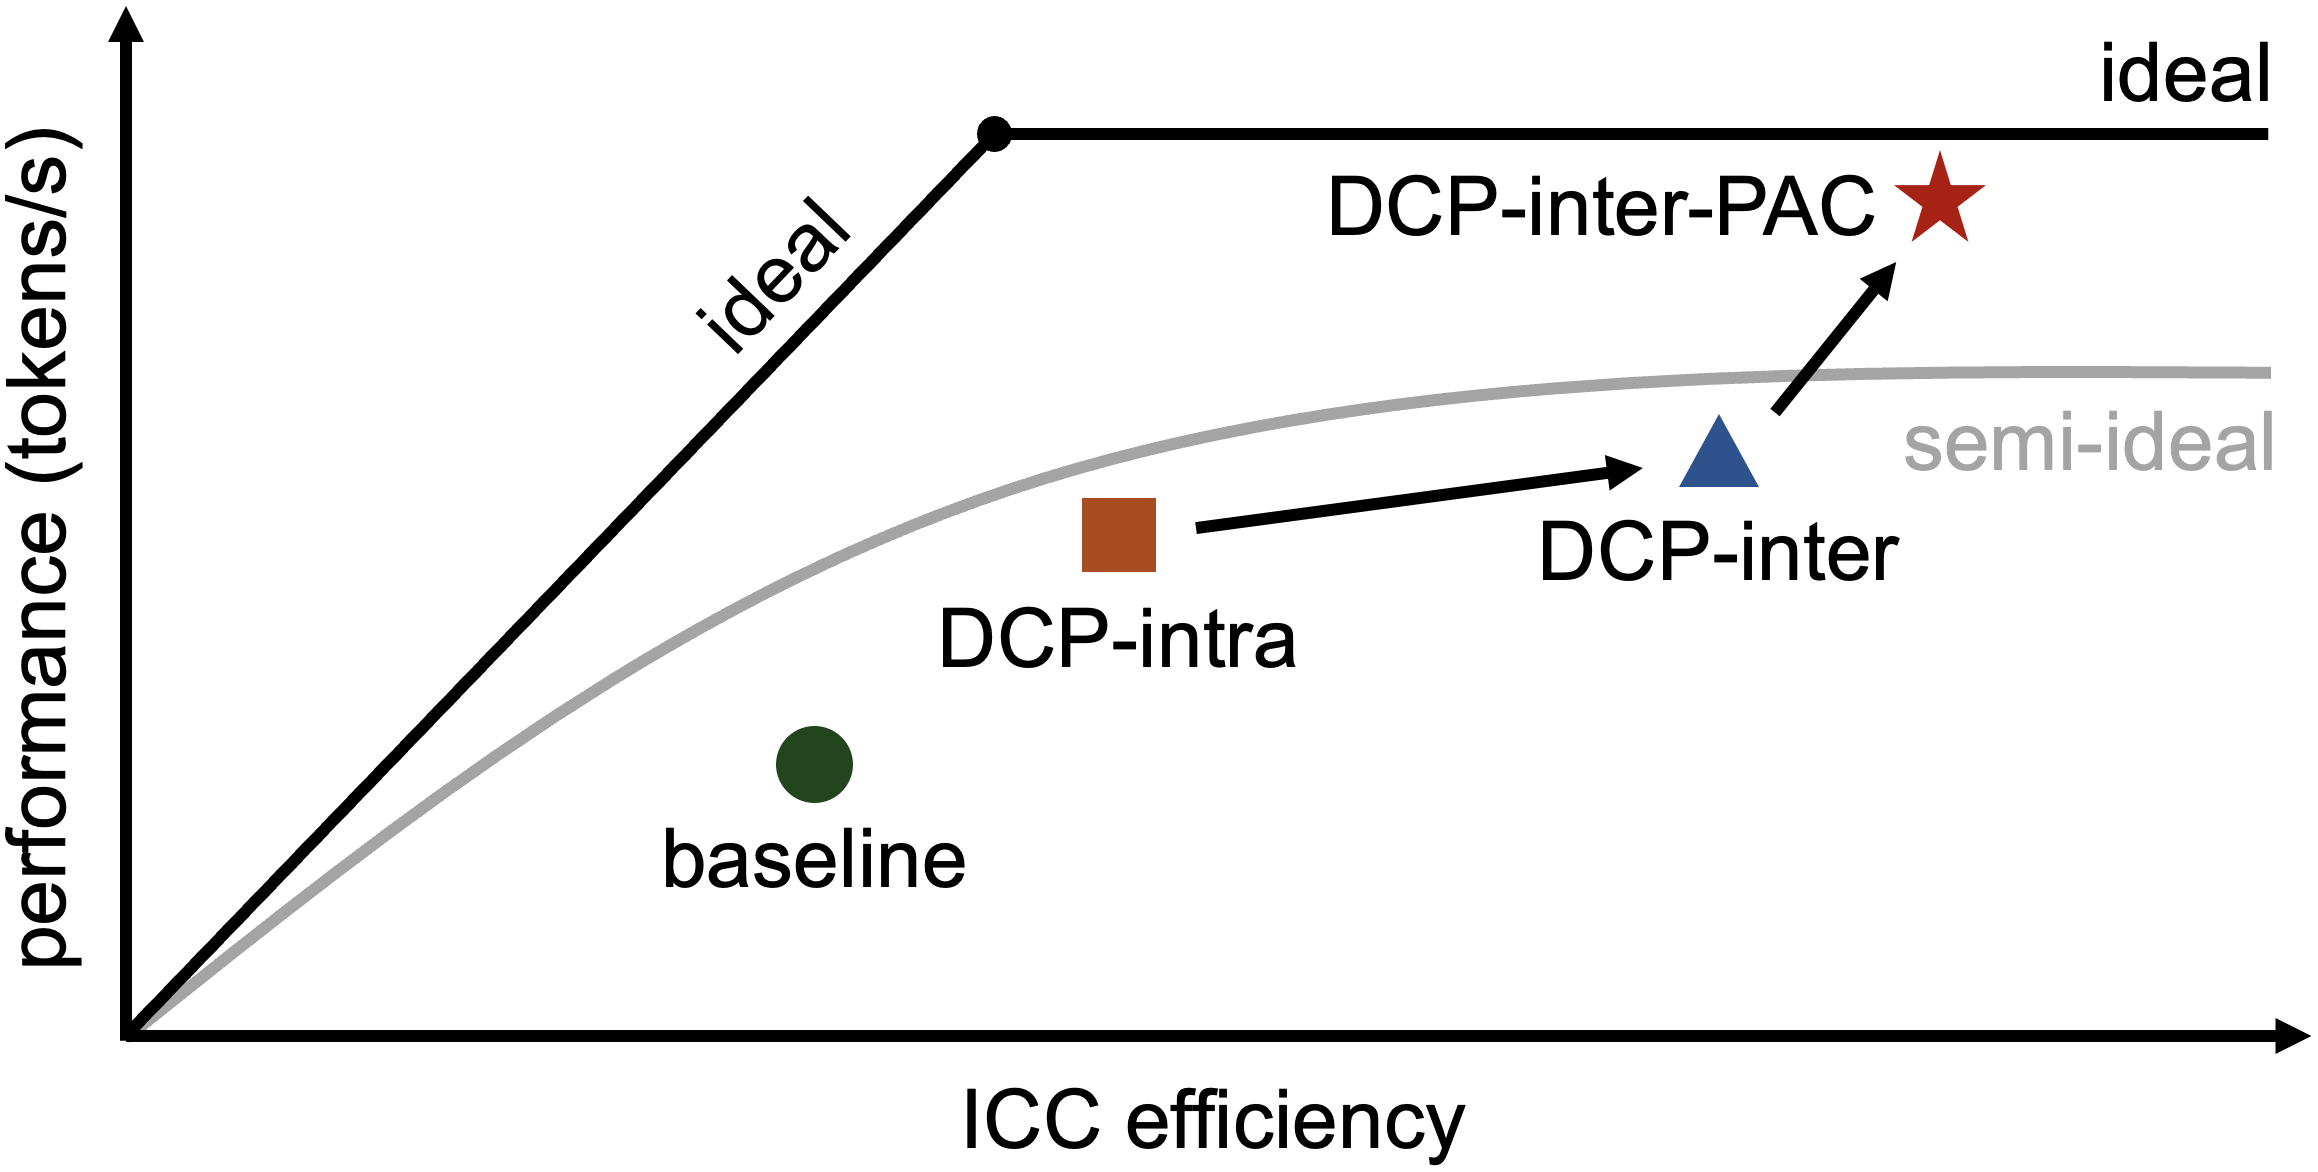
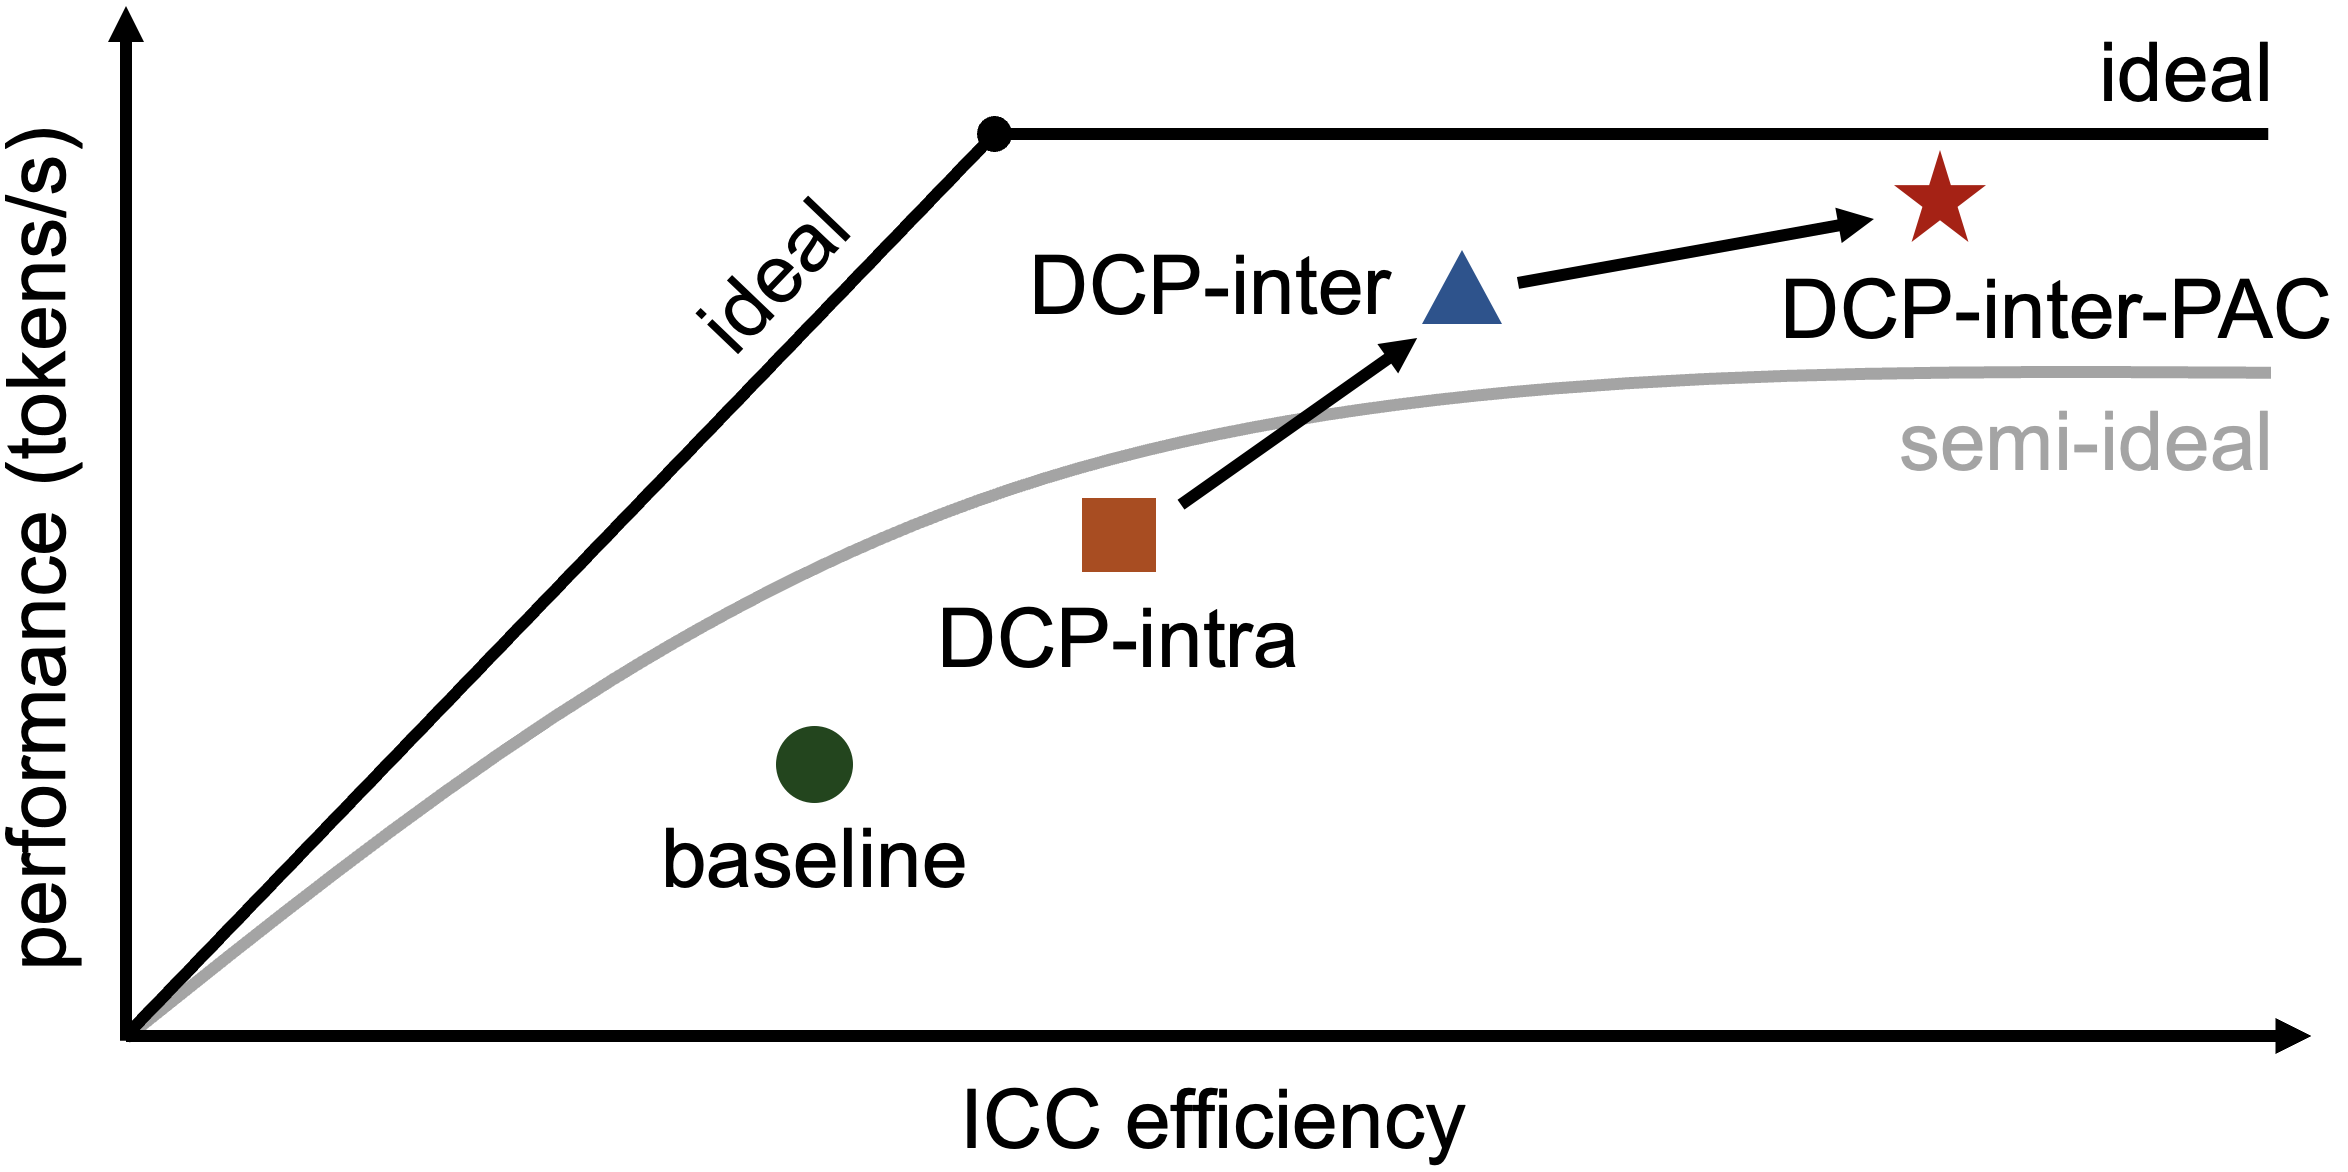
update

diff --git a/DCP/index.html b/DCP/index.html
@@ -240,30 +240,6 @@
               However, bucket parallel struggles with workload imbalance at small batch sizes and communication inefficiency for shorter sequences, while packed parallel, despite better load balancing, incurs unnecessary communication overhead and requires complex implementation changes. Both approaches fail to addresses two critical challenges in variable sequences training: necessary sequence parallel for long sequences and the unbalanced workloads from diverse sequence sizes, due to their fixed settings and lack of data awareness.
             </p>
           </div>
-
-          <h2 class="title is-4">Performance Modeling <span style="font-size: 0.8em">- How to Quantify Efficiency of Variable Sequences Training?</span></h2>
-          <div class="content has-text-justified">
-
-            <div class="content has-text-centered"> 
-              <div id="roofline">
-                <img src="./static/images/roofline.png" style="width: 50%;"><br>
-              </div>
-              <span style="font-size: 0.8em; width: 80%; display: inline-block;">Figure 2: Roofline model of variable sequences training.</span>
-            </div>
-
-            <p>
-              We propose a comprehensive roofline model to characterize and analyze the performance of variable sequences training, as illustrated in Figure 2. The model introduces the ICC (Imbalance-Communication-Computation) efficiency metric, which includes three fundamental factors that collectively determine the overall system performance: workload imbalance, communication overhead, and computation efficiency. It can be formally expressed as:
-            </p>
-            <p>
-              $$
-              ICC(\lambda) = \alpha \cdot \eta_{imb}(\lambda) + \beta \cdot \eta_{comm}(\lambda) + \gamma \cdot \eta_{comp}(\lambda)
-              $$
-            </p>
-            <p>
-              where \(\lambda\) represents the sequence length distribution parameter, \(\eta_{imb}(\lambda)\) quantifies the workload imbalance ratio, \(\eta_{comm}(\lambda)\) characterizes the communication overhead, and \(\eta_{comp}(\lambda)\) represents the computation efficiency.
-            </p>
-
-          </div>
           <br>
 
           <h2 class="title is-4"><span style="color: #ff0000;">D</span><span style="color: #f80007;">a</span><span style="color: #f0000f;">t</span><span style="color: #e90016;">a</span><span style="color: #e2001d;">-</span><span style="color: #db0025;">C</span><span style="color: #d3002c;">e</span><span style="color: #cc0033;">n</span><span style="color: #c5003a;">t</span><span style="color: #bd0042;">r</span><span style="color: #b60049;">i</span><span style="color: #af0050;">c</span><span style="color: #a70058;"> </span><span style="color: #a0005f;">P</span><span style="color: #990066;">a</span><span style="color: #92006e;">r</span><span style="color: #8a0075;">a</span><span style="color: #83007c;">l</span><span style="color: #7c0083;">l</span><span style="color: #74008b;">e</span><span style="color: #6d0092;">l</span> <span style="font-size: 0.8em">- Let Data Choose its Parallel</span></h2>
@@ -312,6 +288,38 @@
               </p>
             </div>
           </div>
+
+          <h2 class="title is-4">Performance Modeling <span style="font-size: 0.8em">- How to Quantify Efficiency of Variable Sequences Training?</span></h2>
+          <div class="content has-text-justified">
+
+            <p>
+              We introduce the ICC (Imbalance-Communication-Computation) efficiency metric for variable sequences training, which identifies three fundamental factors that determine the overall system performance: workload imbalance, communication overhead, and computation efficiency. It can be formally expressed as:
+            </p>
+            <p>
+              $$
+              ICC(\lambda) = \alpha \cdot \eta_{imb}(\lambda) + \beta \cdot \eta_{comm}(\lambda) + \gamma \cdot \eta_{comp}(\lambda)
+              $$
+            </p>
+
+            <div class="content has-text-centered"> 
+              <div id="roofline">
+                <img src="./static/images/roofline.png" style="width: 50%;"><br>
+              </div>
+              <span style="font-size: 0.8em; width: 80%; display: inline-block;">Figure 2: Roofline model of variable sequences training.</span>
+            </div>
+
+            <p>
+              Based on ICC efficiency metric, we propose a roofline performance model to characterize and analyze the training performance of variable-length sequences, as illustrated in Figure 2.
+              <li>
+                The semi-optimal curve demonstrates the maximum achievable performance through intra-sequence balancing. To achieve better balance, it inevitable introduces reduced computational efficiency due to smaller batch sizes, and increased communication overhead for additional iterations.
+              </li>
+              <li>
+                The optimal curve represents the peak performance through inter-sequence balancing, showcasing the theoretical maximum efficiency of our proposed method.
+              </li>
+            </p>
+
+          </div>
+
         </div>
       </div>
     </div>
